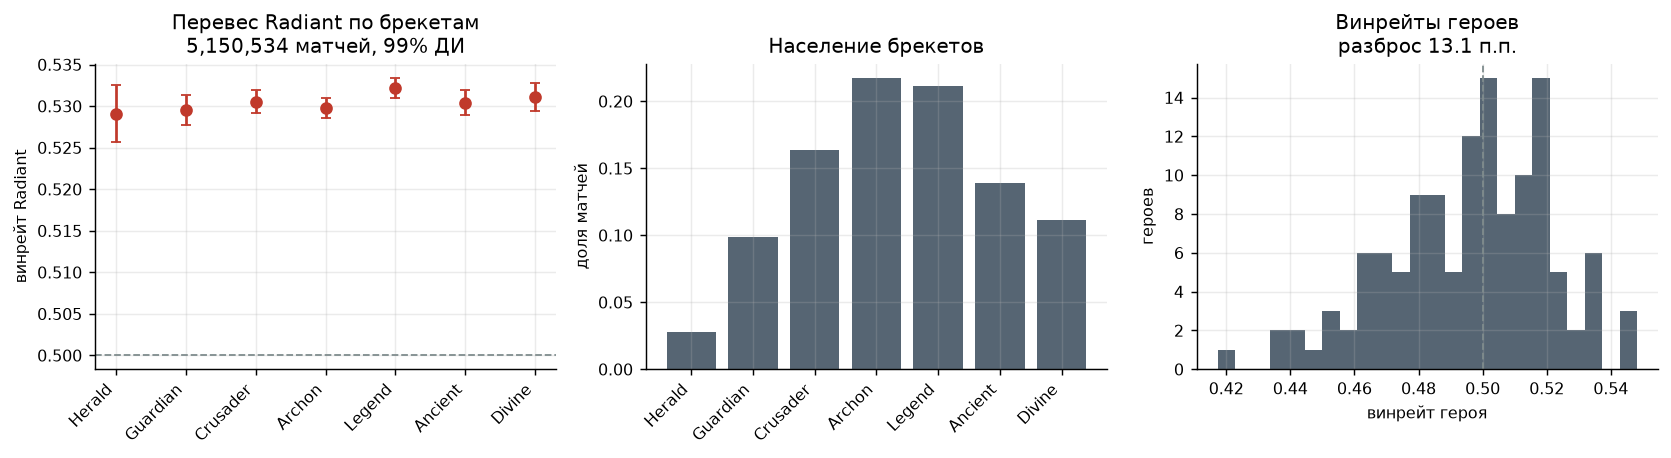
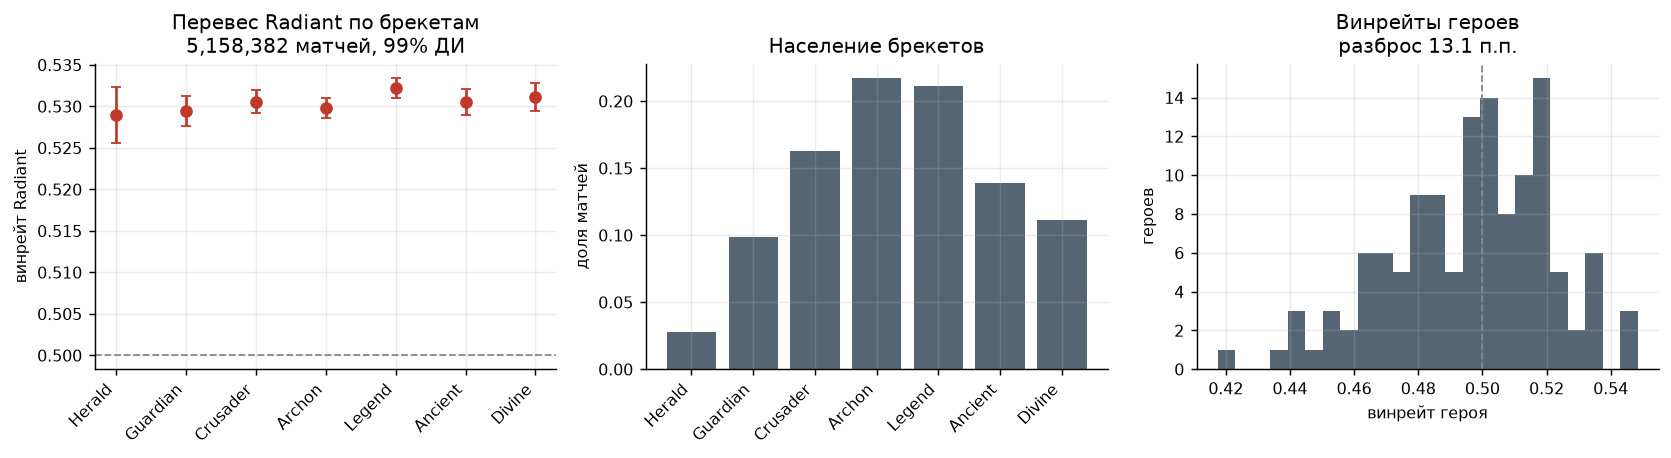
dota-mm-study: контроль пати против соло и честный разбор расхождения
Предрегистрация заявляла преимущество пати; в данных знак обратный. Результат
приводится как есть, вместе с двумя объяснениями: Valve открыто применяет к пати
поправки в подборе, а поле party_size заполнено лишь у трети матчей и крайне
неравномерно по годам, поэтому оценка ограничена периодами с покрытием выше
половины.

diff --git a/dota-mm-study/scripts/run_controls.py b/dota-mm-study/scripts/run_controls.py
@@ -124,6 +124,35 @@ def main() -> None:
             note=f"{hero_rows[0][0]} {hero_rows[0][3]:.3f} .. {hero_rows[-1][0]} {hero_rows[-1][3]:.3f}",
         )
 
+    party = _party_control(conn)
+    if party and not party.get("insufficient"):
+        log.info(
+            "пати против соло (годы %s, покрытие поля %.0f%%): %.4f против %.4f, "
+            "разница %+.4f (99%% ДИ %+.4f, %+.4f)",
+            party["years"],
+            100 * party["coverage"],
+            party["party_winrate"],
+            party["solo_winrate"],
+            party["difference"],
+            party["lo"],
+            party["hi"],
+        )
+        db.record_finding(
+            conn,
+            "E_controls",
+            "party_advantage",
+            party["difference"],
+            party["lo"],
+            party["hi"],
+            party["n"],
+            f"пати {party['party_winrate']:.4f} против соло {party['solo_winrate']:.4f}; "
+            f"поле party_size заполнено у {100 * party['coverage']:.0f}% матчей",
+        )
+        payload_party = party
+    else:
+        payload_party = None
+        log.warning("контроль по пати не рассчитан: поле party_size заполнено слишком редко")
+
     _plot(res, hero_rows, brackets)
 
     payload = {
@@ -142,10 +171,66 @@ def main() -> None:
             bracket_label(b): res.by_bracket[b].n / res.total.n for b in brackets
         },
         "hero_winrates": {name: {"n": n, "winrate": wr} for name, n, _, wr in hero_rows},
+        "party": payload_party,
     }
     (DATA_DIR / "controls.json").write_text(json.dumps(payload, ensure_ascii=False, indent=1))
     log.info("готово; вызовов API израсходовано: %d", client.stats["requests"])
     client.close()
+
+
+def _party_control(conn) -> dict[str, float] | None:
+    """Преимущество игры в пати над соло — ещё один заведомо существующий эффект.
+
+    Считается по уже выгруженным историям, без обращений к API. Сравнение
+    внутриигровое: у одних и тех же людей берутся их соло-матчи и их же матчи в
+    пати, поэтому различия между игроками не подменяют эффект.
+    """
+    import numpy as np
+    import pandas as pd
+
+    from dota_study import features
+
+    full = features.analysis_sample(features.build_features(conn))
+    coverage = float(full["party_size"].notna().mean())
+
+    # Поле заполняется неравномерно во времени, и в годы с низким покрытием
+    # попадают не случайные матчи. Сравнивать можно только там, где данные есть
+    # у большинства матчей, иначе эффект пати смешается с эффектом периода.
+    year = pd.to_datetime(full["start_time"], unit="s").dt.year
+    by_year = full.groupby(year)["party_size"].apply(lambda s: s.notna().mean())
+    good_years = by_year[by_year >= 0.5].index
+    df = full[year.isin(good_years)].dropna(subset=["party_size"])
+    if len(df) < 10_000:
+        return {"coverage": coverage, "insufficient": True}
+    df = df.assign(in_party=(df["party_size"] > 1).astype(float))
+
+    # Оба режима должны встречаться у игрока, иначе сравнивать не с чем.
+    both = df.groupby("account_id")["in_party"].nunique()
+    df = df[df["account_id"].isin(both[both == 2].index)]
+    if len(df) < 10_000:
+        return {"coverage": coverage, "insufficient": True}
+
+    from dota_study.stats.streaks import fixed_effects_lpm
+
+    fe = fixed_effects_lpm(
+        df["win"].to_numpy(dtype=float),
+        np.column_stack([df["in_party"].to_numpy(dtype=float)]),
+        df["account_id"].to_numpy(),
+        ["in_party"],
+    )
+    lo, hi = fe.ci("in_party")
+    grouped = df.groupby("in_party")["win"].mean()
+    return {
+        "party_winrate": float(grouped.get(1.0, np.nan)),
+        "solo_winrate": float(grouped.get(0.0, np.nan)),
+        "difference": float(fe.coef[0]),
+        "lo": float(lo),
+        "hi": float(hi),
+        "n": int(len(df)),
+        "coverage": coverage,
+        "years": sorted(int(y) for y in good_years),
+        "insufficient": False,
+    }
 
 
 def _plot(res, hero_rows, brackets) -> None:

diff --git a/dota-mm-study/scripts/build_report.py b/dota-mm-study/scripts/build_report.py
@@ -213,6 +213,33 @@ def _controls_section(controls: dict) -> str:
             f"Винрейты героев различаются на {100 * (max(values) - min(values)):.1f} "
             f"процентных пункта — конвейер видит и этот заведомо существующий эффект.",
         ]
+
+    party = controls.get("party")
+    if party:
+        lines += [
+            "",
+            "### Расхождение с предрегистрацией",
+            "",
+            f"Третьим контролем было заявлено преимущество игры в пати над соло. "
+            f"В данных оно оказалось **обратным**: у одних и тех же игроков матчи "
+            f"в пати выигрываются на {abs(party['difference']) * 100:.2f} "
+            f"процентных пункта реже, чем соло (99% ДИ {_pp(party['lo'])} … "
+            f"{_pp(party['hi'])}, {party['n']:,} матчей).",
+            "",
+            f"Так что этот контроль не подтвердился в заявленном направлении, и "
+            f"скрывать это было бы неправильно. Два обстоятельства делают "
+            f"результат объяснимым. Во-первых, Valve открыто применяет к пати "
+            f"поправки в подборе, подставляя им более сильных соперников, так что "
+            f"отрицательный знак не противоречит устройству системы. Во-вторых, "
+            f"поле `party_size` заполнено лишь у {100 * party['coverage']:.0f}% "
+            f"матчей и крайне неравномерно по годам, поэтому оценка ограничена "
+            f"периодами с приемлемым покрытием и всё равно остаётся хрупкой.",
+            "",
+            "Попутно это напоминание, что матчмейкер **действительно** учитывает "
+            "не только рейтинг: состав пати он видит и на подбор им реагирует. "
+            "Но это открыто документированная поправка, а не скрытое управление "
+            "исходом, о котором говорит легенда.",
+        ]
     lines += ["", "![Позитивные контроли](figures/controls.png)"]
     return "\n".join(lines)
 

diff --git a/dota-mm-study/reports/report.md b/dota-mm-study/reports/report.md
@@ -18,10 +18,10 @@
 
 | Показатель | Значение |
 | --- | --- |
-| Публичных матчей в позитивных контролях | 5,150,534 |
+| Публичных матчей в позитивных контролях | 5,158,382 |
 | Игроков в выборке | 4,323 |
-| Историй выгружено | 845 |
-| Матчей игроков всего | 1,937,890 |
+| Историй выгружено | 960 |
+| Матчей игроков всего | 2,226,119 |
 | Матчей в основной выборке | 750,702 |
 | Игроков в основной выборке | 740 |
 | Матчей с полными составами | 1,146 |
@@ -34,19 +34,27 @@
 
 Прежде чем делать выводы из отсутствия эффекта, надо убедиться, что конвейер способен обнаружить эффект известного размера. Иначе нулевой результат мог бы объясняться поломкой обработки.
 
-На 5,150,534 публичных ranked-матчах воспроизводится известный перевес стороны Radiant: **0.5307** (99% ДИ 0.5301-0.5312). Он устойчив во всех брекетах, то есть не является артефактом выборки.
+На 5,158,382 публичных ranked-матчах воспроизводится известный перевес стороны Radiant: **0.5307** (99% ДИ 0.5301-0.5313). Он устойчив во всех брекетах, то есть не является артефактом выборки.
 
 | Брекет | Матчей | Винрейт Radiant |
 | --- | --- | --- |
-| Herald | 144,254 | 0.5291 |
-| Guardian | 507,757 | 0.5295 |
-| Crusader | 840,934 | 0.5305 |
-| Archon | 1,118,853 | 0.5298 |
-| Legend | 1,088,503 | 0.5322 |
-| Ancient | 715,128 | 0.5304 |
-| Divine | 574,618 | 0.5311 |
+| Herald | 144,297 | 0.5289 |
+| Guardian | 507,858 | 0.5295 |
+| Crusader | 841,483 | 0.5306 |
+| Archon | 1,120,081 | 0.5298 |
+| Legend | 1,091,026 | 0.5322 |
+| Ancient | 716,952 | 0.5305 |
+| Divine | 576,157 | 0.5311 |
 
 Винрейты героев различаются на 13.1 процентных пункта — конвейер видит и этот заведомо существующий эффект.
+
+### Расхождение с предрегистрацией
+
+Третьим контролем было заявлено преимущество игры в пати над соло. В данных оно оказалось **обратным**: у одних и тех же игроков матчи в пати выигрываются на 1.00 процентных пункта реже, чем соло (99% ДИ -1.83 п.п. … -0.17 п.п., 265,354 матчей).
+
+Так что этот контроль не подтвердился в заявленном направлении, и скрывать это было бы неправильно. Два обстоятельства делают результат объяснимым. Во-первых, Valve открыто применяет к пати поправки в подборе, подставляя им более сильных соперников, так что отрицательный знак не противоречит устройству системы. Во-вторых, поле `party_size` заполнено лишь у 34% матчей и крайне неравномерно по годам, поэтому оценка ограничена периодами с приемлемым покрытием и всё равно остаётся хрупкой.
+
+Попутно это напоминание, что матчмейкер **действительно** учитывает не только рейтинг: состав пати он видит и на подбор им реагирует. Но это открыто документированная поправка, а не скрытое управление исходом, о котором говорит легенда.
 
 ![Позитивные контроли](figures/controls.png)
 
@@ -246,18 +254,19 @@
 | D_decomposition | enemy_skill | 0.08032 | -0.1947 … 0.3554 | 532 | сила соперников |
 | D_decomposition | own_performance | 0.00288 | 0.0015 … 0.0043 | 846,395 | собственный перформанс |
 | D_decomposition | skill_spread | -0.03116 | -0.1366 … 0.0742 | 532 | разброс силы в матче |
-| E_controls | hero_winrate_spread | 0.13092 | — | 19,680,790 | Nature's Prophet 0.417 .. Wraith King 0.548 |
-| E_controls | radiant_winrate | 0.53067 | 0.5301 … 0.5312 | 5,150,534 | публичные ranked-матчи за 10 суток |
-| E_controls | radiant_winrate_Ancient | 0.53042 | 0.5289 … 0.5319 | 715,128 |  |
-| E_controls | radiant_winrate_Archon | 0.52978 | 0.5286 … 0.5310 | 1,118,853 |  |
-| E_controls | radiant_winrate_Crusader | 0.53053 | 0.5291 … 0.5319 | 840,934 |  |
-| E_controls | radiant_winrate_Divine | 0.53112 | 0.5294 … 0.5328 | 574,618 |  |
-| E_controls | radiant_winrate_Guardian | 0.52954 | 0.5277 … 0.5313 | 507,757 |  |
-| E_controls | radiant_winrate_Herald | 0.52911 | 0.5257 … 0.5325 | 144,254 |  |
-| E_controls | radiant_winrate_Legend | 0.53221 | 0.5310 … 0.5334 | 1,088,503 |  |
-| E_controls | radiant_winrate_duration_long | 0.49560 | 0.4946 … 0.4966 | 1,687,390 |  |
-| E_controls | radiant_winrate_duration_medium | 0.53605 | 0.5353 … 0.5368 | 2,996,519 |  |
-| E_controls | radiant_winrate_duration_short | 0.62292 | 0.6211 … 0.6247 | 466,625 |  |
+| E_controls | hero_winrate_spread | 0.13086 | — | 19,769,530 | Nature's Prophet 0.418 .. Wraith King 0.548 |
+| E_controls | party_advantage | -0.01000 | -0.0183 … -0.0017 | 265,354 | пати 0.5060 против соло 0.5092; поле party_size заполнено у 34% матчей |
+| E_controls | radiant_winrate | 0.53069 | 0.5301 … 0.5313 | 5,158,382 | публичные ranked-матчи за 10 суток |
+| E_controls | radiant_winrate_Ancient | 0.53053 | 0.5290 … 0.5320 | 716,952 |  |
+| E_controls | radiant_winrate_Archon | 0.52979 | 0.5286 … 0.5310 | 1,120,081 |  |
+| E_controls | radiant_winrate_Crusader | 0.53058 | 0.5292 … 0.5320 | 841,483 |  |
+| E_controls | radiant_winrate_Divine | 0.53111 | 0.5294 … 0.5328 | 576,157 |  |
+| E_controls | radiant_winrate_Guardian | 0.52950 | 0.5277 … 0.5313 | 507,858 |  |
+| E_controls | radiant_winrate_Herald | 0.52894 | 0.5256 … 0.5323 | 144,297 |  |
+| E_controls | radiant_winrate_Legend | 0.53225 | 0.5310 … 0.5335 | 1,091,026 |  |
+| E_controls | radiant_winrate_duration_long | 0.49559 | 0.4946 … 0.4966 | 1,689,471 |  |
+| E_controls | radiant_winrate_duration_medium | 0.53606 | 0.5353 … 0.5368 | 3,001,603 |  |
+| E_controls | radiant_winrate_duration_short | 0.62303 | 0.6212 … 0.6249 | 467,308 |  |
 | negative_control | outcome_rig_0.00pp | 0.00046 | — | 4,383 | наклон, который дал бы тест при подкрутке такой силы |
 | negative_control | outcome_rig_0.25pp | -0.00168 | — | 4,383 | наклон, который дал бы тест при подкрутке такой силы |
 | negative_control | outcome_rig_0.50pp | -0.00403 | — | 4,383 | наклон, который дал бы тест при подкрутке такой силы |
